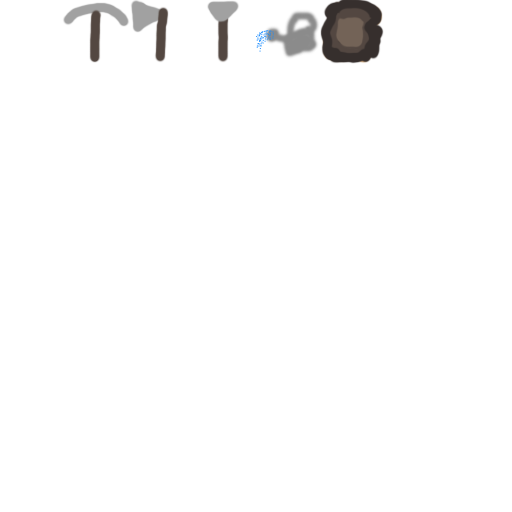
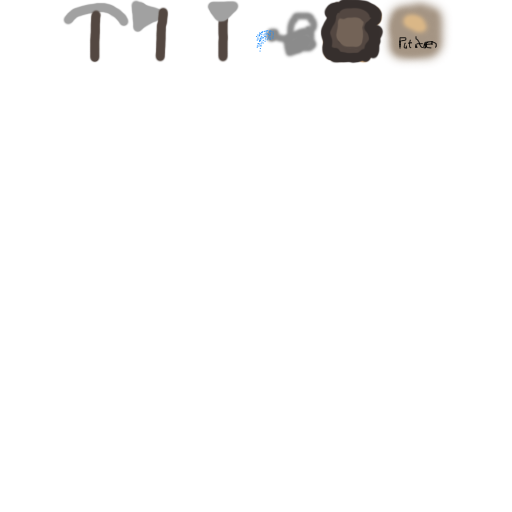
Potato item and plant
Added potato seed item and some starter crop files

Changed region(s): [[0.75, 0.0, 0.875, 0.125]]

diff --git a/Westwood/TileMap.cpp b/Westwood/TileMap.cpp
@@ -45,12 +45,12 @@ void CTileMap::Save()
 
 void CTileMap::Render()
 {
+	CRenderer::GetInstance().RenderTileMap(*this);
+
 	for (unsigned int indexInMap = 0; indexInMap < m_tileCount; ++indexInMap)
 	{
 		RenderLayersOnTile(indexInMap);
 	}
-
-	CRenderer::GetInstance().RenderTileMap(*this);
 }
 
 sf::Vector2f CTileMap::CheckForAllowedMove(const sf::Vector2f & a_targetPosition, const sf::Vector2f& a_currentPosition) const
@@ -236,7 +236,7 @@ void CTileMap::RenderLayersOnTile(short a_indexInMap)
 	short wateredTileIndex = m_wateredTiles[a_indexInMap];
 	if (wateredTileIndex != -1)
 	{
-		wetnessTint = sf::Color::Blue;
+		wetnessTint = sf::Color(150, 150, 150, 255);
 	}
 
 	short interactedTileIndex = m_interactedTiles[a_indexInMap];

diff --git a/Westwood/Player.cpp b/Westwood/Player.cpp
@@ -61,7 +61,7 @@ void CPlayer::Update()
 #ifdef _DEBUG
 	if (input.IsKeyPressed(EKeyCode::F8))
 	{
-		m_shouldSleep = true;
+		SetShouldSleep();
 	}
 #endif
 
@@ -80,6 +80,7 @@ void CPlayer::Update()
 	if (input.IsKeyPressed(EKeyCode::MouseLeft))
 	{
 		CAudioManager::GetInstance().PlaySoundAtPosition("Shovel", -CRenderer::GetInstance().GetCamera().getSize() / 2.f + input.GetMousePosFloat() + CRenderer::GetInstance().GetCamera().getCenter());
+		GetInventory().AddItemToInventory("PotatoSeeds", 5);
 	}
 }
 
